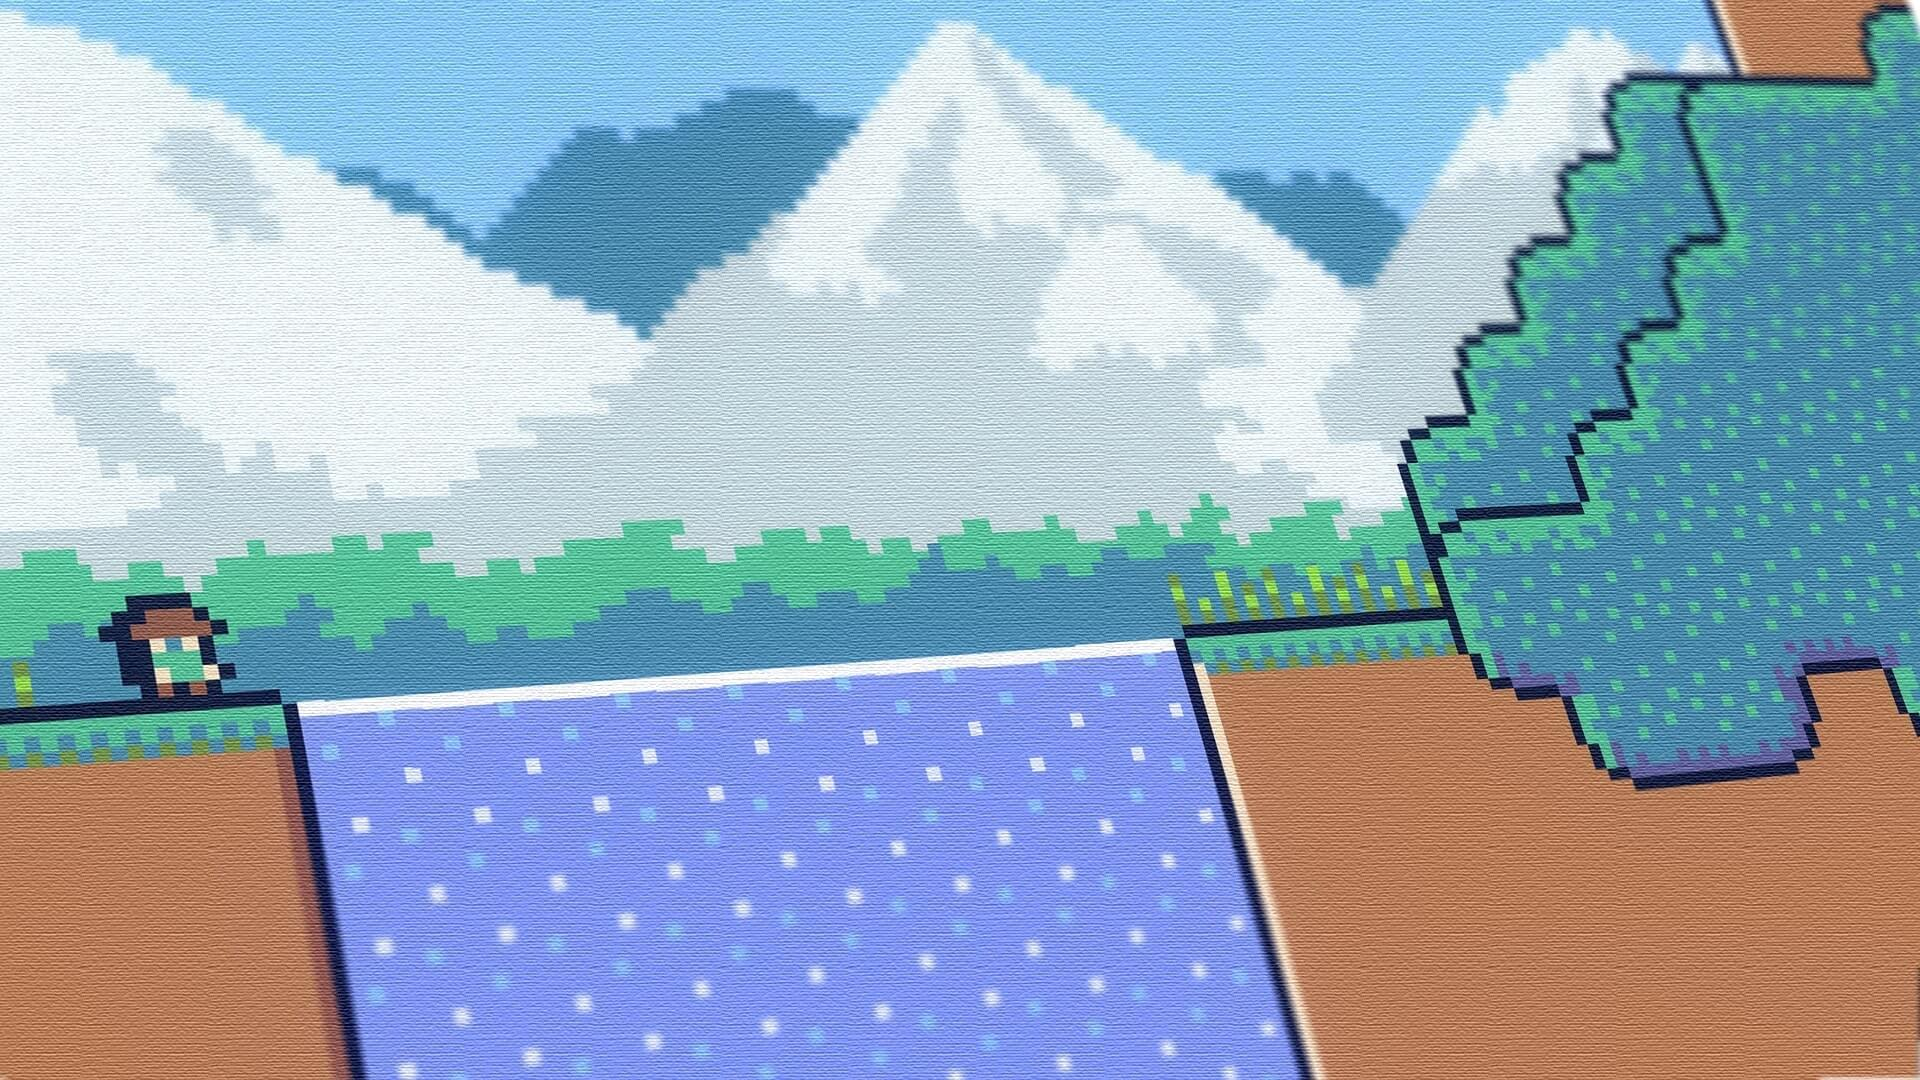
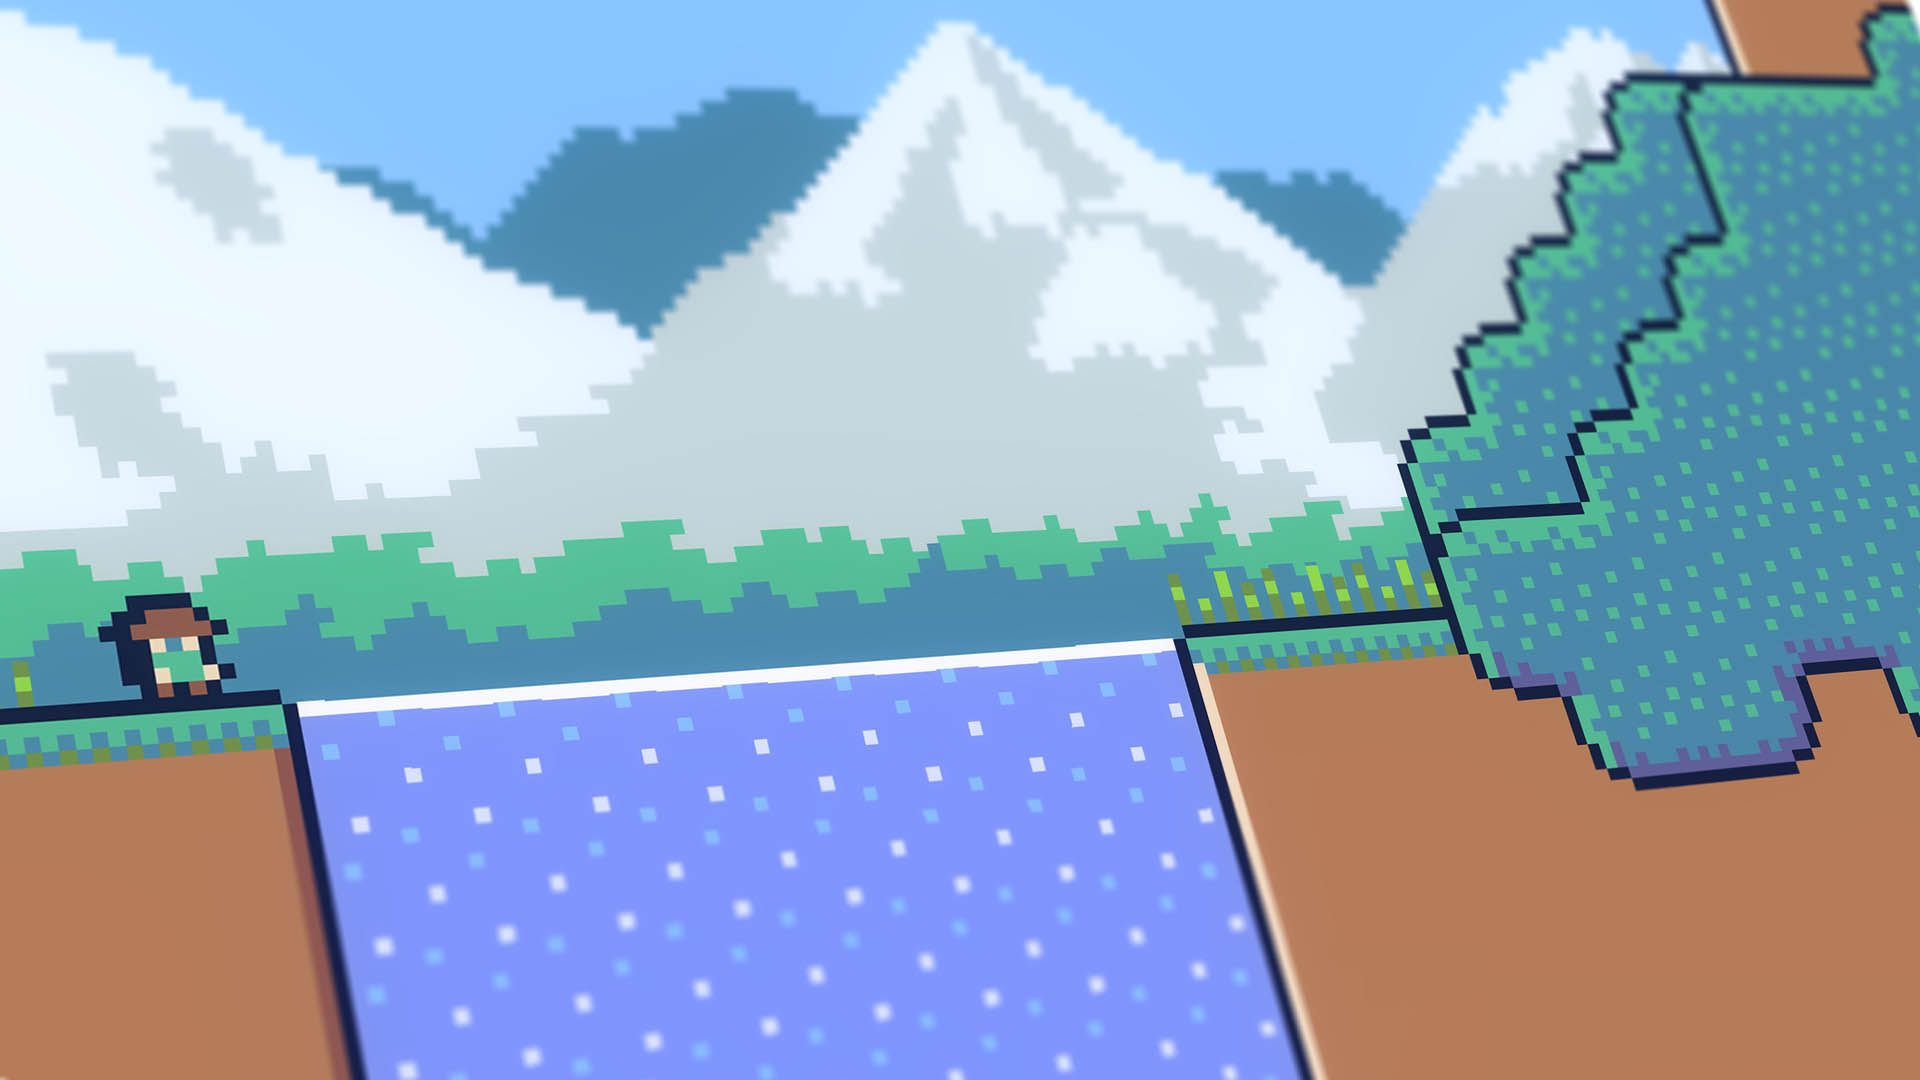
Rearranged elements in index

diff --git a/index.html b/index.html
@@ -13,42 +13,57 @@ has_carousel: false
     <div class="siema">
         {% assign products = site.data.products | sort %}
         {% for product_hash in products %}
-            {% assign product = product_hash[1] %}
-            <a href="/{{ product.code }}/" style="color: white;">
-                <div class="hero vignette-shadow-box is-medium"
-                    style="background: url('/img/product/{{ product.code }}-hero.jpg') no-repeat center center; background-size: cover; background-position: center;">
-                    <div class="hero-align-bottom">
-                        <div class="has-background-{% if product.type == 'game' %}secondary{% else %}primary{% endif %}" style="width: 50%; padding: 1.5rem; border-radius: 30px 0px 30px 0px;">
-                            <h1 class="title is-1 has-text-white">
-                                {{ product.name }}
-                            </h1>
-                            <h2 class="subtitle is-5 has-text-white">
-                                {{ product.subtitle }}
-                            </h2>
-                        </div>
+        {% assign product = product_hash[1] %}
+        <a href="/{{ product.code }}/" style="color: white;">
+            <div class="hero is-medium"
+                style="background: url('/img/product/{{ product.code }}-hero.jpg') no-repeat center center; background-size: cover; background-position: center;">
+                <div class="hero-align-bottom">
+                    <div
+                        class="index-product has-background-{% if product.type == 'game' %}secondary{% else %}primary{% endif %}">
+                        <h1 class="title is-1 has-text-white" style="font-size:3vw;">{{ product.name }}
+                        </h1>
+                        <h2 class="subtitle is-5 has-text-white" style="font-size:1.2vw;">{{ product.subtitle }}
+                        </h2>
                     </div>
                 </div>
-            </a>
+            </div>
+        </a>
         {% endfor %}
     </div>
     <style>
+  
+        .index-product {
+            width: 100%;
+            padding: 1.5rem;
+            border-radius: 30px 30px 00px 30px;
+        }
+
         .hero-align-bottom {
             padding-left: 60px;
             padding-right: 60px;
         }
 
         @media screen and (min-width: 769px) {
+
             .hero-align-bottom {
-                padding-bottom: 2rem;
+                padding-bottom: 1rem;
                 padding-top: 35rem;
             }
         }
 
         @media screen and (max-width: 769px) {
-            .hero-align-bottom {
-                padding-bottom: 3rem;
-                padding-top: 5rem;
+
+            .index-product {
+                padding: 1.1rem;
+                width: 100%;
             }
+
+            .hero-align-bottom {
+                padding-left: 3rem;
+                padding-bottom: 1rem;
+                padding-top: 15rem;
+            }
+
         }
     </style>
 </div>

diff --git a/css/custom.css b/css/custom.css
@@ -121,7 +121,3 @@ blockquote:before {}
 .carousel .slider-pagination {
     display: none;
 }
-
-.vignette-shadow-box {
-    box-shadow: inset 0 -30px 110px rgba(255, 255, 255, 0.527);
-  }
